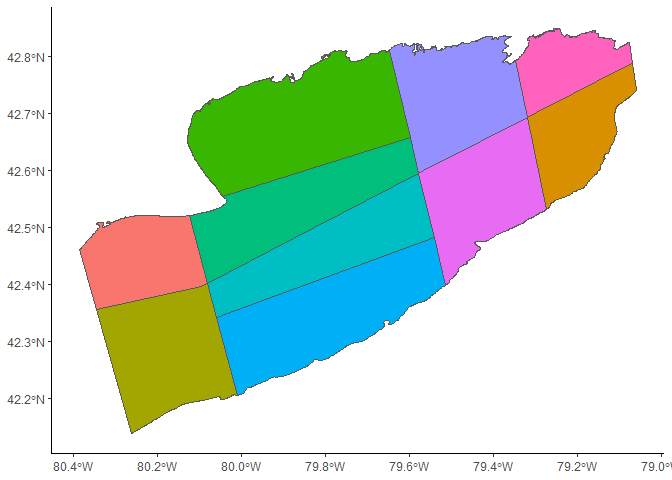
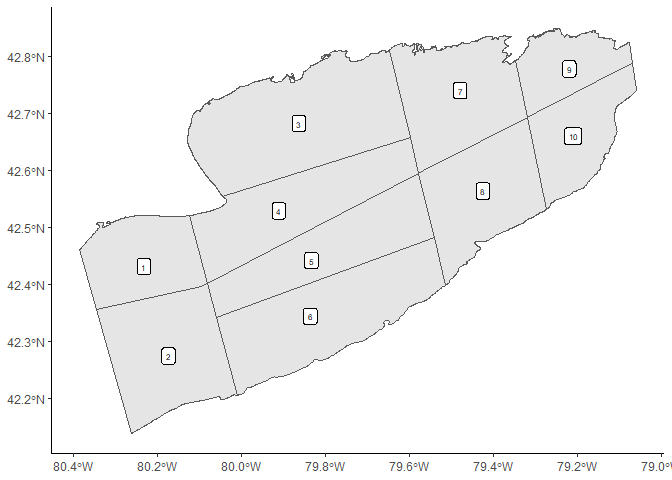
updates readme

diff --git a/README.md b/README.md
@@ -4,9 +4,18 @@
 # eriespatial
 
 <!-- badges: start -->
+
+![R
+badge](https://img.shields.io/badge/R-276DC3?style=for-the-badge&logo=r&logoColor=white)
+![develoment
+badge](https://img.shields.io/badge/Dev-InProgress-%3CCOLOR%3E.svg)
 <!-- badges: end -->
 
-The goal of eriespatial is to …
+The goal of eriespatial is to provide common Lake Erie shapefiles for R
+users. Shapefiles have generally been imported as an `sf` object and
+also plotted as a base `ggplot2` object. The `sf` objects follow the
+naming convention of `shape_[area]`. The `ggplot2` objects follow the
+naming convention of `base_[area]`.
 
 ## Installation
 
@@ -20,13 +29,44 @@ devtools::install_github("LakeErie-PreyFish-Acoustics/eriespatial")
 
 ## Example
 
-This is a basic example which shows you how to solve a common problem:
-
 ``` r
 library(eriespatial)
-## basic example code
-data("ebstrata")
-ebstrata
+library(sf)
+#> Linking to GEOS 3.9.1, GDAL 3.2.1, PROJ 7.2.1; sf_use_s2() is TRUE
+library(ggplot2)
+## view the sf shapefile
+data("shape_ebstrata")
+shape_ebstrata
+#> Simple feature collection with 10 features and 2 fields
+#> Geometry type: POLYGON
+#> Dimension:     XY
+#> Bounding box:  xmin: -80.38612 ymin: 42.13901 xmax: -79.05942 ymax: 42.85076
+#> Geodetic CRS:  WGS 84
+#>    STRATUM area_km2                       geometry
+#> 1        1      339 POLYGON ((-80.08151 42.4017...
+#> 2        2      501 POLYGON ((-80.34535 42.3561...
+#> 3        3      757 POLYGON ((-79.64922 42.8115...
+#> 4        4      498 POLYGON ((-79.57869 42.596,...
+#> 5        5      445 POLYGON ((-80.08151 42.4017...
+#> 6        6      618 POLYGON ((-79.54181 42.4831...
+#> 7        7      465 POLYGON ((-79.32086 42.6942...
+#> 8        8      438 POLYGON ((-79.57869 42.596,...
+#> 9        9      229 POLYGON ((-79.06974 42.7886...
+#> 10      10      305 POLYGON ((-79.32086 42.6942...
+# plot(shape_ebstrata)
+## view ggplot basemap
+data("base_ebstrata")
+base_ebstrata
 ```
 
-<img src="man/figures/README-example-1.png" width="100%" />
+<img src="man/figures/README-example-1.png" width="60%" />
+
+### Add custom points to base ggplot
+
+``` r
+pointdata <- data.frame(LON = c(-79.8, -80, -79.2), LAT = c(42.3, 42.4, 42.7))
+pointdata <- st_as_sf(pointdata, coords = c("LON", "LAT"), crs=4269)
+base_ebstrata + geom_sf(data = pointdata, color = 'red')
+```
+
+<img src="man/figures/README-addpoints-1.png" width="60%" />
